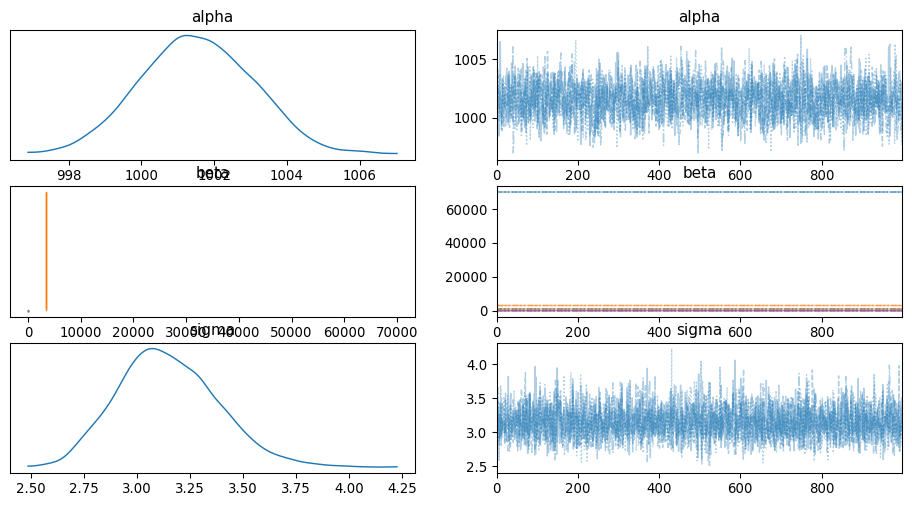
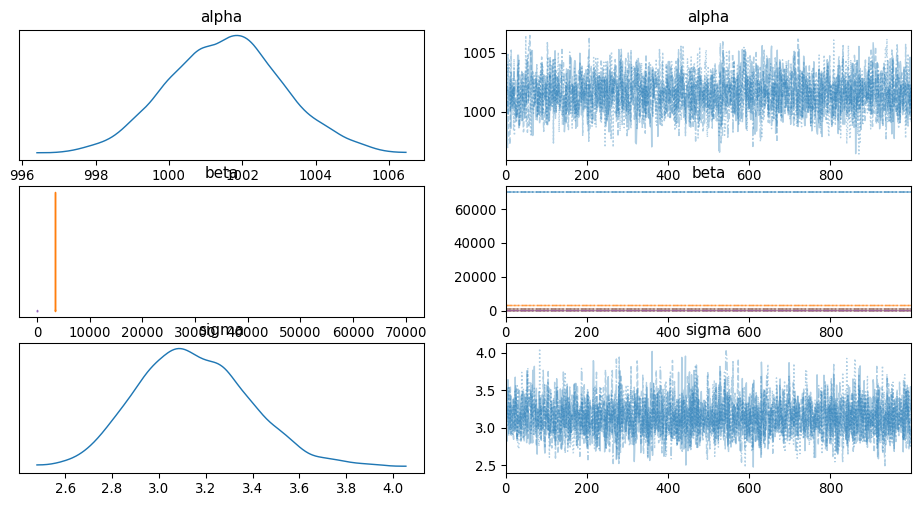
just now need to read over report to make sure it's completely described.

diff --git a/writing/report.md b/writing/report.md
@@ -3,10 +3,11 @@
 
 ## Milestone 1: Project Idea
 
-I love anything airline related, so my idea is to analyze some airline
-data to see if one thing causes another. Specifically, I want to see if
-having an airline’s loyalty card increases the revenue that customer
-makes for the airline (called CLV or Customer Lifetime Value).
+I’m really passionate about anything related to airlines, so for this
+project, I want to take a causal approach to analyzing airline data.
+Specifically, I’m interested in whether loyalty card programs actually
+increase an airline’s revenue, measured by Customer Lifetime Value
+(CLV).
 
 ## Milestone 2: Data Story
 
@@ -36,12 +37,16 @@ https://www.kaggle.com/datasets/agungpambudi/airline-loyalty-campaign-program-im
 
 ## Milestone 3: DAG
 
-This is the first DAG I created.
+For the first DAG I created, I chose to use the variables from my
+dataset. I believed that demographics each influenced both CLV and
+loyalty card status. I also believed that loyalty card status affected
+flights and points which in turn affected CLV.
 
 ![Initial Old DAG](Old_DAG.png)
 
-This is the second DAG I created. I add more variables because I have
-most of these columns in my dataset.
+This is the second DAG I created when I considered even more variables
+than my previous DAG. I added more demographics, flight aspects, and
+points/economic aspects.
 
 ![Second Iteration of Initial Old DAG](Old_DAG_Updated.png)
 
@@ -287,7 +292,7 @@ for p in ax.patches:
 plt.savefig('../figures/enrollment_type_bar_chart.png', dpi=300, bbox_inches='tight')
 ```
 
-![Salary Histogram](enrollment_type_bar_chart.png)
+![Enrollment Type Bar Chart](enrollment_type_bar_chart.png)
 
 Customer Engagement is how engaged a person is in the airline. I do not
 have this variable in my dataset.
@@ -313,7 +318,7 @@ plt.ylabel('Count')
 plt.savefig('../figures/clv_histogram.png', dpi=300, bbox_inches='tight')
 ```
 
-![Salary Histogram](hist_clv.png)
+![CLV Histogram](hist_clv.png)
 
 ## Milestone 7: Estimate Causal Effects
 
@@ -401,27 +406,27 @@ Jupyter support
 
 <pre style="white-space:pre;overflow-x:auto;line-height:normal;font-family:Menlo,'DejaVu Sans Mono',consolas,'Courier New',monospace"></pre>
 
-    Sampling 4 chains for 1_000 tune and 1_000 draw iterations (4_000 + 4_000 draws total) took 83 seconds.
+    Sampling 4 chains for 1_000 tune and 1_000 draw iterations (4_000 + 4_000 draws total) took 63 seconds.
 
                  mean    sd    hdi_3%   hdi_97%  mcse_mean  mcse_sd  ess_bulk  \
-    alpha     1001.52  1.54    998.66   1004.35       0.04     0.02   1895.57   
-    beta[0]  69999.86  0.16  69999.57  70000.16       0.00     0.00   2956.39   
-    beta[1]   3500.00  0.00   3500.00   3500.00       0.00     0.00   3215.75   
-    beta[2]      5.11  0.12      4.89      5.35       0.00     0.00   2989.31   
-    beta[3]      0.88  0.23      0.45      1.32       0.00     0.00   3187.06   
-    beta[4]      2.72  0.12      2.49      2.93       0.00     0.00   2847.99   
-    beta[5]   1000.14  0.67    998.85   1001.37       0.01     0.01   3510.58   
-    sigma        3.15  0.23      2.71      3.57       0.00     0.00   2978.58   
+    alpha     1001.54  1.58    998.55   1004.50       0.03     0.02   2073.61   
+    beta[0]  69999.86  0.16  69999.55  70000.16       0.00     0.00   3172.77   
+    beta[1]   3500.00  0.00   3500.00   3500.00       0.00     0.00   3162.71   
+    beta[2]      5.11  0.13      4.88      5.36       0.00     0.00   2750.57   
+    beta[3]      0.87  0.24      0.45      1.34       0.00     0.00   3211.19   
+    beta[4]      2.71  0.11      2.50      2.92       0.00     0.00   3788.70   
+    beta[5]   1000.15  0.65    998.97   1001.39       0.01     0.01   2609.00   
+    sigma        3.15  0.24      2.72      3.60       0.00     0.00   2977.16   
 
              ess_tail  r_hat  
-    alpha     2030.87    1.0  
-    beta[0]   2981.03    1.0  
-    beta[1]   2555.00    1.0  
-    beta[2]   2569.18    1.0  
-    beta[3]   2590.51    1.0  
-    beta[4]   2245.87    1.0  
-    beta[5]   2976.41    1.0  
-    sigma     2792.04    1.0  
+    alpha     2407.12    1.0  
+    beta[0]   2532.05    1.0  
+    beta[1]   2736.14    1.0  
+    beta[2]   2775.74    1.0  
+    beta[3]   2669.58    1.0  
+    beta[4]   2956.56    1.0  
+    beta[5]   2576.18    1.0  
+    sigma     2596.37    1.0  
 
 ![](report_files/figure-commonmark/cell-7-output-6.png)
 
@@ -446,37 +451,53 @@ Software. I was testing how desirable different package deals (with
 specified benefits) were for different loyalty cards. I got 33
 responses. Here are my results:
 
-![DAG](Airline%20Loyalty%20Conjoint%20Survey%20-%20Ever%20been%20on%20a%20plane_%20Chart.png)
+![Been on
+airplane?](Airline%20Loyalty%20Conjoint%20Survey%20-%20Ever%20been%20on%20a%20plane_%20Chart.png)
 
-![DAG](Airline%20Loyalty%20Conjoint%20Survey%20-%20Employed%20rn_%20Chart.png)
+![Are you
+employed?](Airline%20Loyalty%20Conjoint%20Survey%20-%20Employed%20rn_%20Chart.png)
 
-![DAG](Airline%20Loyalty%20Conjoint%20Survey%20-%2018_plus_%20Chart.png)
+![Are you
+18+?](Airline%20Loyalty%20Conjoint%20Survey%20-%2018_plus_%20Chart.png)
 
-![DAG](Airline%20Loyalty%20Conjoint%20Survey%20-%20How%20often%20do%20you%20fly_%20Chart.png)
+![How often do you
+fly?](Airline%20Loyalty%20Conjoint%20Survey%20-%20How%20often%20do%20you%20fly_%20Chart.png)
 
-![DAG](Airline%20Loyalty%20Conjoint%20Survey%20-%20Travel%20Reason_%20Chart.png)
+![Why do you
+fly?](Airline%20Loyalty%20Conjoint%20Survey%20-%20Travel%20Reason_%20Chart.png)
 
-![DAG](Loyalty%20Card%20Package%20Options%20-%20Card%20Type%20Chart.png)
+![Package Names: Star, Nova,
+Aurora](Loyalty%20Card%20Package%20Options%20-%20Card%20Type%20Chart.png)
 
-![DAG](Loyalty%20Card%20Package%20Options%20-%20Benefit%201%20Chart.png)
+![Benefit Grouping
+1](Loyalty%20Card%20Package%20Options%20-%20Benefit%201%20Chart.png)
 
-![DAG](Loyalty%20Card%20Package%20Options%20-%20Benefit%202%20Chart.png)
+![Benefit Grouping
+2](Loyalty%20Card%20Package%20Options%20-%20Benefit%202%20Chart.png)
 
-![DAG](Loyalty%20Card%20Package%20Options%20-%20Price%20Chart.png)
+![Package
+Prices](Loyalty%20Card%20Package%20Options%20-%20Price%20Chart.png)
 
-![DAG](Loyalty%20Card%20Package%20Options%20-%20Attribute%20importance%20Chart.png)
+![Attribute
+Importance](Loyalty%20Card%20Package%20Options%20-%20Attribute%20importance%20Chart.png)
 
-![DAG](Airline%20Loyalty%20Conjoint%20Survey%20-%20Buy%20a%20card_%20Chart.png)
+![Would you buy a loyalty
+card?](Airline%20Loyalty%20Conjoint%20Survey%20-%20Buy%20a%20card_%20Chart.png)
 
-![DAG](Airline%20Loyalty%20Conjoint%20Survey%20-%20Yearly%20Income%20Chart.png)
+![What’s your yearly income
+bracket?](Airline%20Loyalty%20Conjoint%20Survey%20-%20Yearly%20Income%20Chart.png)
 
-![DAG](Airline%20Loyalty%20Conjoint%20Survey%20-%20Education%20Level%20Chart.png)
+![What’s your education
+level?](Airline%20Loyalty%20Conjoint%20Survey%20-%20Education%20Level%20Chart.png)
 
-![DAG](Airline%20Loyalty%20Conjoint%20Survey%20-%20Age%20Chart.png)
+![What’s your age
+bracket?](Airline%20Loyalty%20Conjoint%20Survey%20-%20Age%20Chart.png)
 
-![DAG](Airline%20Loyalty%20Conjoint%20Survey%20-%20Gender%20Chart.png)
+![What’s your
+gender?](Airline%20Loyalty%20Conjoint%20Survey%20-%20Gender%20Chart.png)
 
-![DAG](Airline%20Loyalty%20Conjoint%20Survey%20-%20Married_%20Chart.png)
+![Are you
+married?](Airline%20Loyalty%20Conjoint%20Survey%20-%20Married_%20Chart.png)
 
 ## Milestone 10: Implement Diff-in-Diff Strategy
 
@@ -591,9 +612,37 @@ A few changes I made:
 - The Salary histogram no longer has a bin below zero (since you can’t
   have a negative salary).
 
-- I updated my DAG along the way.
+I updated my DAG throughout the project and finalized it using Dagitty
+to give it a more polished and professional appearance. In the DAG, the
+primary relationship I’m interested in is the effect of **loyalty card
+status** on **Customer Lifetime Value (CLV)**.
 
-![DAG](DAG_CLV.jpg)
+Several other variables influence this relationship. **Travel
+frequency** plays a key role—it affects loyalty card status because
+people who travel more frequently are more likely to seek the benefits
+that come with being a frequent flyer. It also influences total **flight
+distance**, since more trips naturally lead to a greater accumulated
+distance. In turn, total flight distance affects CLV, as longer flights
+tend to be more expensive and generate more revenue for the airline.
+
+**Income** is another upstream variable that influences travel frequency
+(higher income typically enables more travel), loyalty card status (some
+tiers may come with fees or require higher spending), and influences CLV
+(wealthier customers may spend more with the airline overall).
+
+**Company marketing strategy** also feeds into the system by affecting
+travel frequency (e.g., through increased exposure to promotions),
+customer engagement, and loyalty card status (via targeted advertising).
+All of these, in turn, impact CLV. **Customer engagement** directly
+affects both loyalty card status and CLV, as more engaged customers are
+more likely to enroll in loyalty programs and continue spending.
+
+Finally, loyalty card status also affects **upgrades/perks** and
+**length of enrollment**, both of which can enhance a customer’s
+experience and increase their overall value to the airline, thereby
+contributing to CLV.
+
+![DAG](DagittyDAG.png)
 
 ## Milestone 12: Matching Strategy
 
@@ -617,7 +666,3 @@ I created my final presentation!
 
 I finished my report and created my GitHUb page to represent my
 portfolio!
-
-I created my DAG in Dagitty so that it looked professional.
-
-![Dagitty DAG](DagittyDAG.png)
